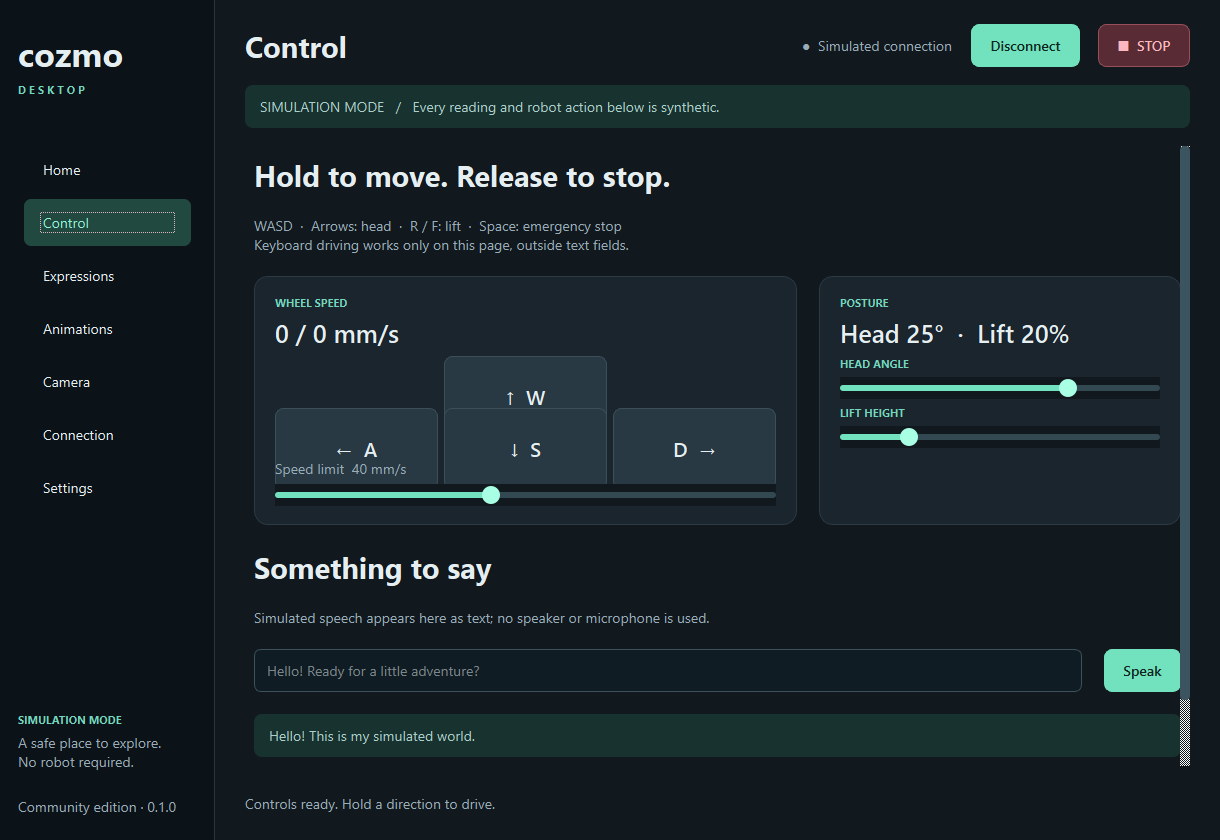
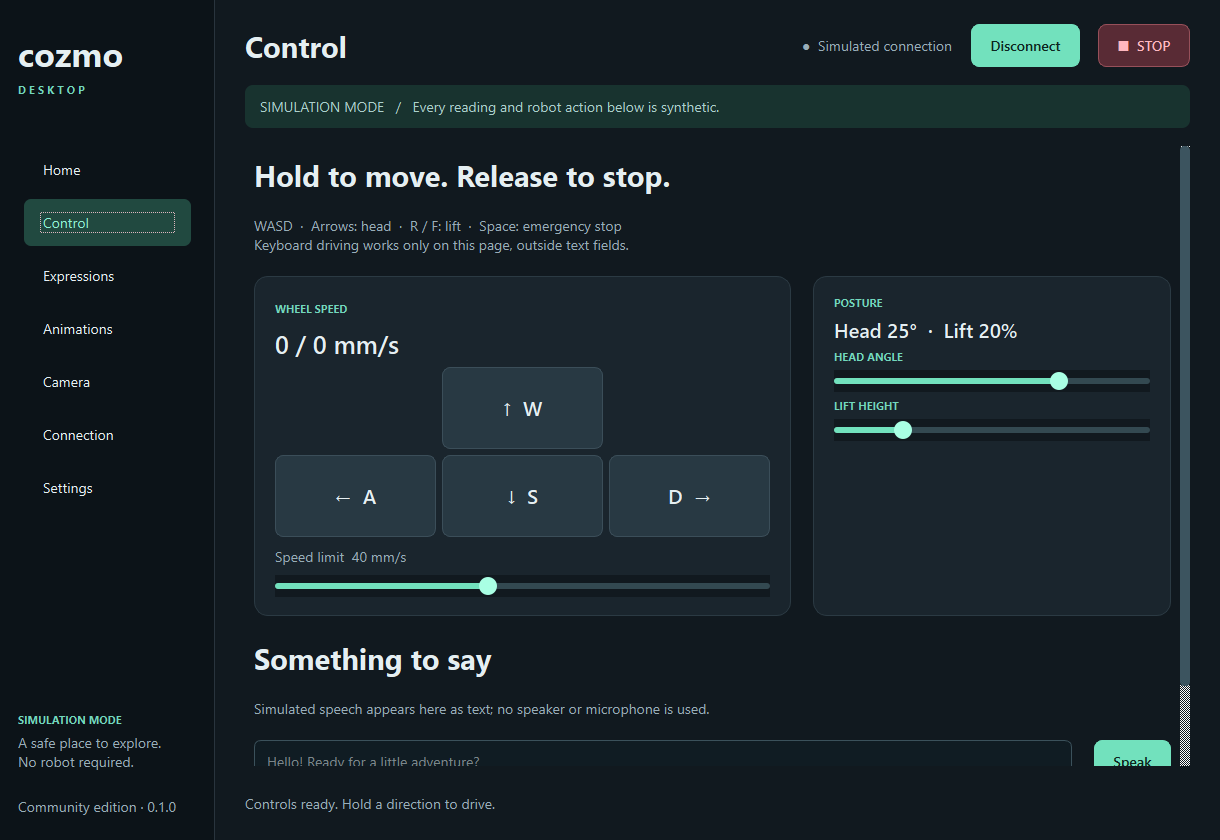
fix: improve control layout and verify keyboard and X11 launch

diff --git a/tests/test_ui.py b/tests/test_ui.py
@@ -3,6 +3,7 @@ import asyncio
 import pytest
 from PySide6.QtCore import QEvent, Qt
 from PySide6.QtGui import QKeyEvent
+from PySide6.QtTest import QTest
 from PySide6.QtWidgets import QApplication
 
 from cozmo_desktop.robot.simulator import SimulatorBackend
@@ -72,6 +73,25 @@ async def test_keyboard_focus_loss_and_page_change_stop(window):
     window.navigation.setCurrentRow(0)
     await asyncio.sleep(0.01)
     assert window.controller.backend.state.left_speed == 0
+
+
+async def test_real_qt_keyboard_events_and_release(window):
+    await connect_control(window)
+    QTest.keyPress(window.control, Qt.Key.Key_W)
+    window.refresh()
+    await asyncio.sleep(0.01)
+    assert window.controller.backend.state.left_speed == 40
+    QTest.keyRelease(window.control, Qt.Key.Key_W)
+    await asyncio.sleep(0.01)
+    assert window.controller.backend.state.left_speed == 0
+    QTest.keyClick(window.control, Qt.Key.Key_Up)
+    QTest.keyClick(window.control, Qt.Key.Key_R)
+    await asyncio.sleep(0.01)
+    assert window.controller.backend.state.head_angle == 5
+    assert window.controller.backend.state.lift_height == 0.1
+    QTest.keyClick(window.control, Qt.Key.Key_Space)
+    await asyncio.sleep(0.01)
+    assert window.controller.latched
 
 
 async def test_typing_focus_clears_held_keys(window):

diff --git a/src/cozmo_desktop/ui/control.py b/src/cozmo_desktop/ui/control.py
@@ -35,6 +35,7 @@ class ControlPage(QWidget):
         )
         columns = QHBoxLayout()
         drive_card, self.speed_label = card("Wheel speed", "0 / 0 mm/s")
+        drive_card.setMinimumHeight(340)
         drive_layout = drive_card.layout()
         assert isinstance(drive_layout, QVBoxLayout)
         pad = QGridLayout()
@@ -65,6 +66,7 @@ class ControlPage(QWidget):
         drive_layout.addWidget(self.limit)
         columns.addWidget(drive_card, 3)
         posture, self.posture_label = card("Posture", "Head 0°  ·  Lift 0%")
+        self.posture_label.setStyleSheet("font-size: 20px;")
         posture_layout = posture.layout()
         assert isinstance(posture_layout, QVBoxLayout)
         posture_layout.addWidget(label("HEAD ANGLE", "eyebrow"))

diff --git a/README.md b/README.md
@@ -143,8 +143,11 @@ QT_QPA_PLATFORM=offscreen python -m cozmo_desktop \
 
 See [architecture](docs/ARCHITECTURE.md), [development](docs/DEVELOPMENT.md),
 [AGENTS.md](AGENTS.md) and [contributing](CONTRIBUTING.md). Tests require no robot.
-Initial local validation: Python 3.12.10/Windows, 62 tests, Ruff, mypy and native Qt
-smoke test. Linux test/package results are available on the repository Actions page.
+Initial local validation: Python 3.12.10/Windows, 63 tests, Ruff, mypy and native Qt
+smoke test. Ubuntu 22.04/Python 3.11 and Ubuntu 24.04/Python 3.12 passed the initial
+CI suite and Qt smoke tests; the Ubuntu 24.04 `.deb` built, installed and launched.
+Each subsequent commit reruns validation. See the repository Actions page for results
+on the exact revision you download, including the installed package's X11 launch check.
 
 ## Roadmap
 

diff --git a/docs/PACKAGING.md b/docs/PACKAGING.md
@@ -20,7 +20,8 @@ explicitly invokes `/opt/cozmo-desktop/venv/bin/python` so it does not depend on
 build-directory shebangs. Qt libraries remain dynamically linked and replaceable.
 An original SVG icon and application menu entry are installed under `/usr/share`.
 
-CI builds the package, installs it on Ubuntu 24.04, runs the application smoke test,
+CI builds the package, installs it on Ubuntu 24.04, runs the application smoke test
+both offscreen and with the X11/xcb plugin under Xvfb,
 and uploads the `.deb`, Python source archive/wheel and dependency manifest. Download
 the matching artifact from the repository's Actions page; this is a development
 artifact, not a signed stable release. Keep a copy of the source archive with binaries.
